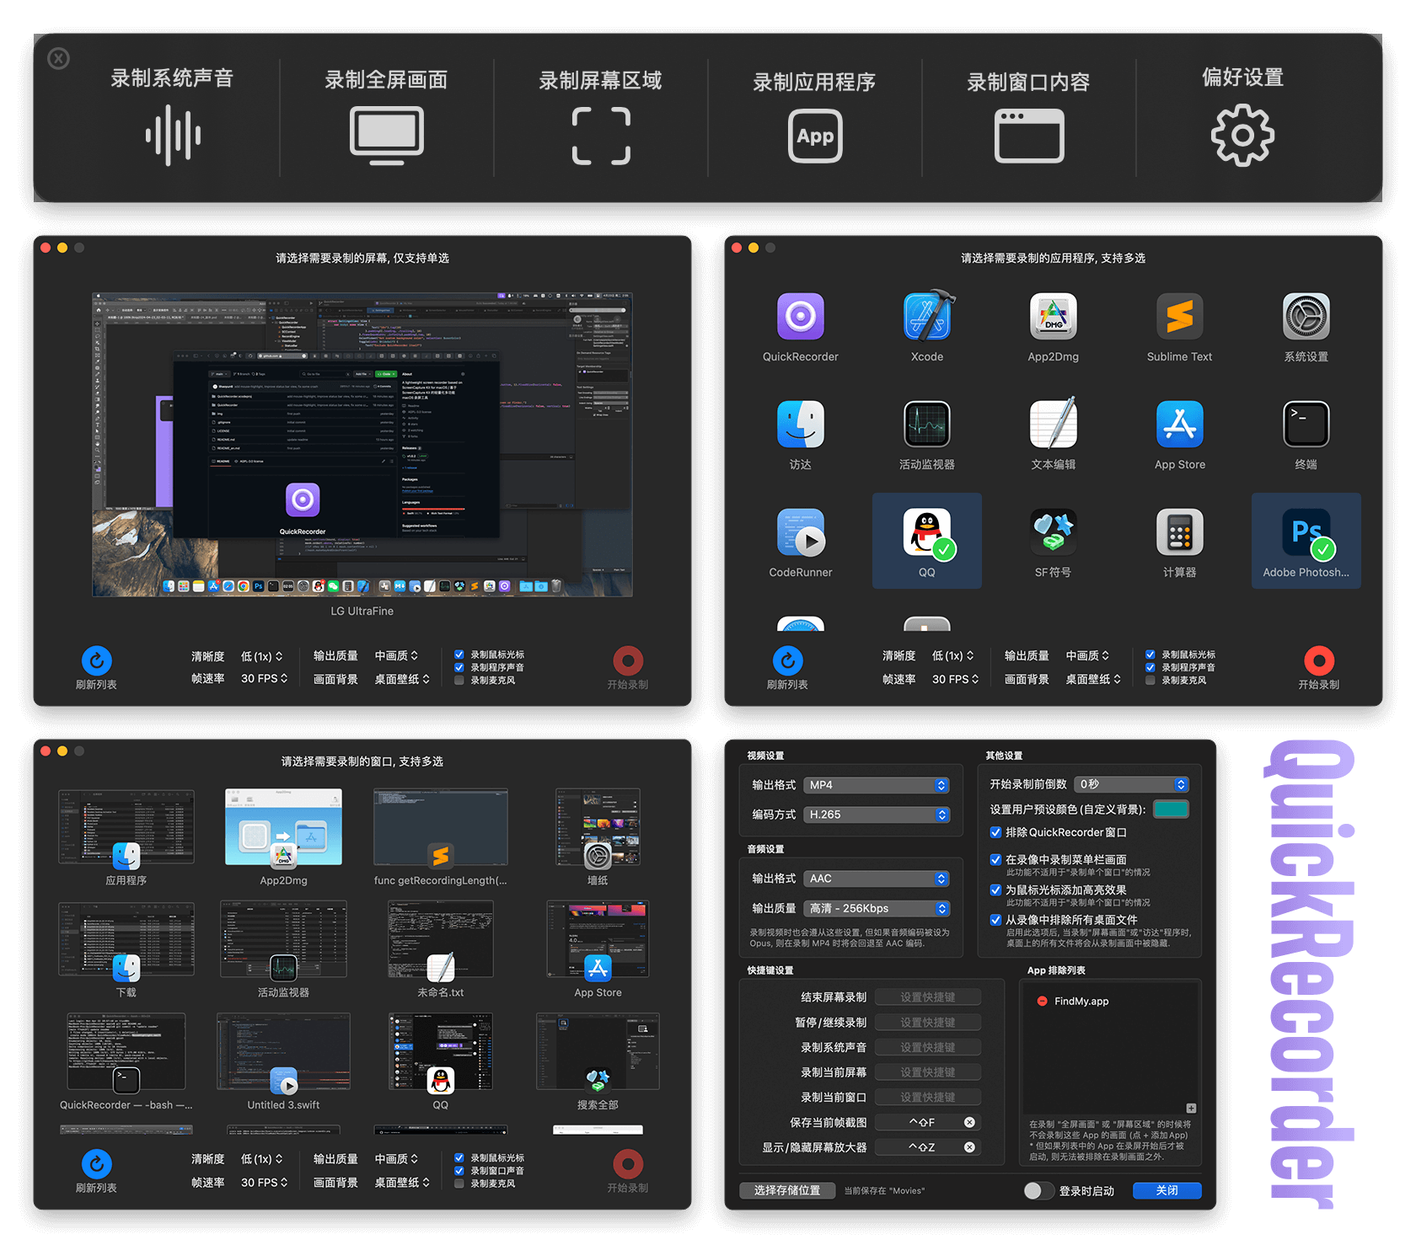
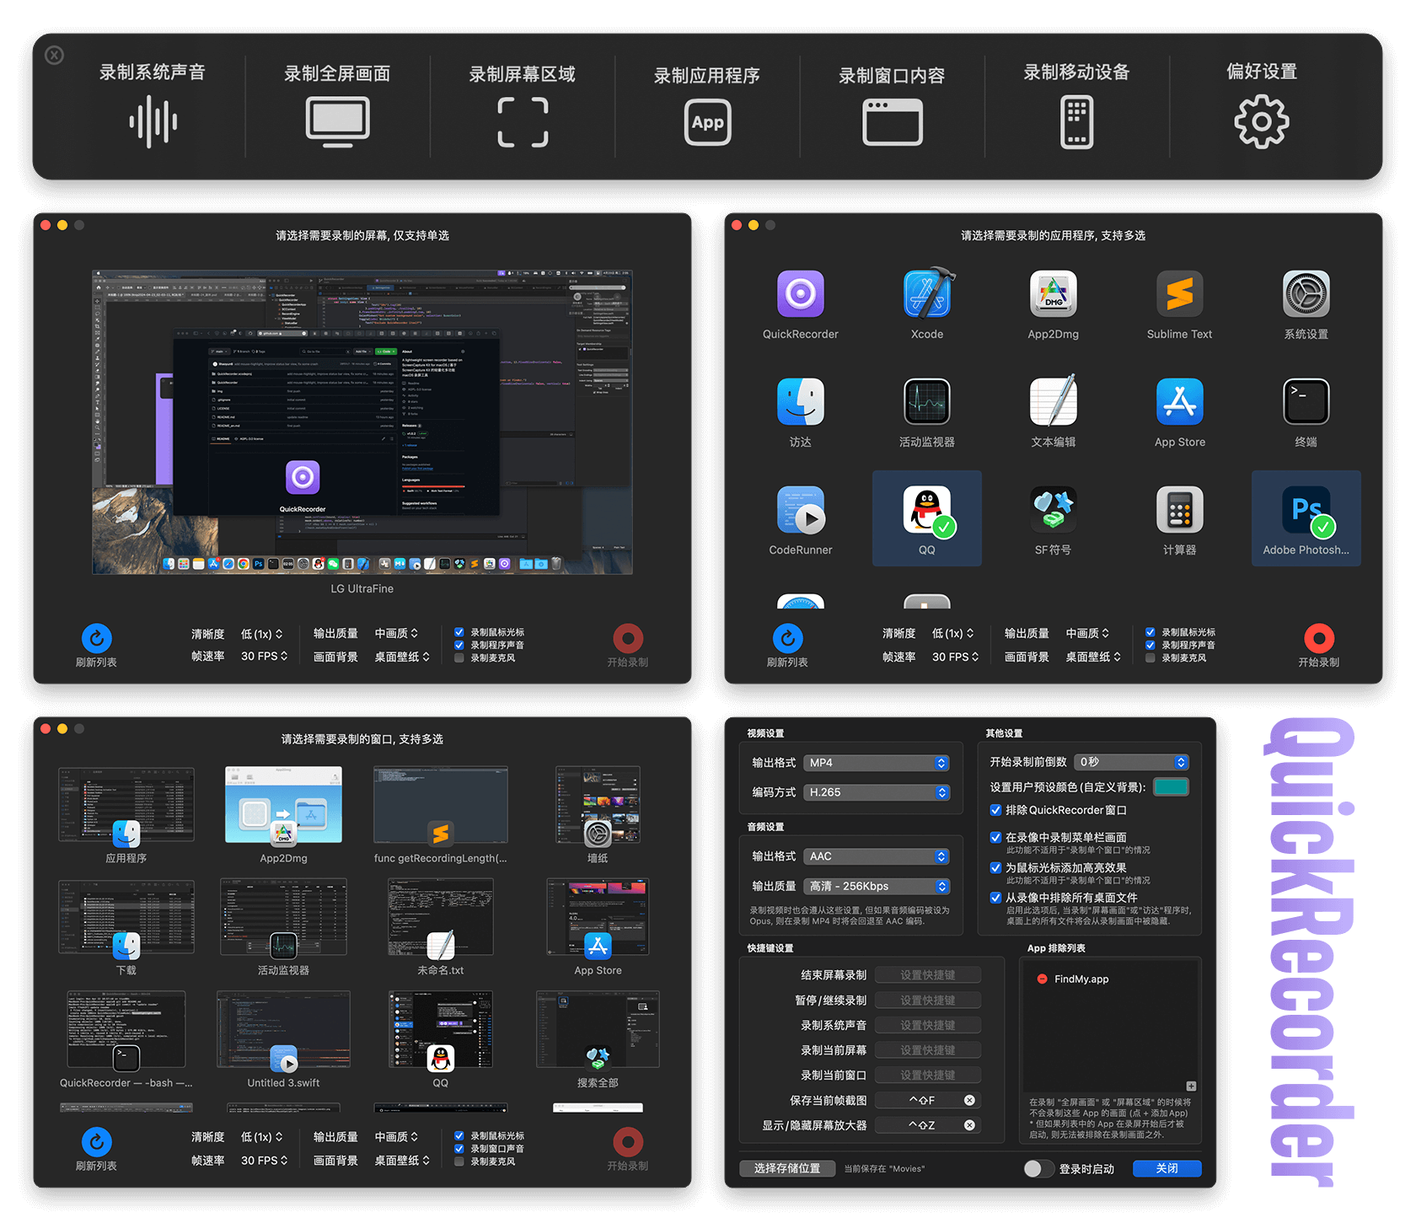
remove pixel format; added alpha support; add hotkey for area recording

diff --git a/QuickRecorder/ViewModel/SettingsView.swift b/QuickRecorder/ViewModel/SettingsView.swift
@@ -21,6 +21,7 @@ struct SettingsView: View {
     @AppStorage("audioQuality")     private var audioQuality: AudioQuality = .high
     @AppStorage("pixelFormat")      private var pixelFormat: PixFormat = .delault
     @AppStorage("colorSpace")       private var colorSpace: ColSpace = .delault
+    @AppStorage("background")       private var background: BackgroundType = .wallpaper
     @AppStorage("hideSelf")         private var hideSelf: Bool = true
     @AppStorage("countdown")        private var countdown: Int = 0
     @AppStorage("poSafeDelay")      private var poSafeDelay: Int = 1
@@ -29,6 +30,7 @@ struct SettingsView: View {
     @AppStorage("includeMenuBar")   private var includeMenuBar: Bool = false
     @AppStorage("hideDesktopFiles") private var hideDesktopFiles: Bool = false
     @AppStorage("trimAfterRecord")  private var trimAfterRecord: Bool = false
+    @AppStorage("withAlpha")        private var withAlpha: Bool = false
     
     var body: some View {
         VStack {
@@ -36,30 +38,35 @@ struct SettingsView: View {
                 VStack(alignment: .leading) {
                     GroupBox(label: Text("Video Settings".local).fontWeight(.bold)) {
                         Form() {
-                            Picker("Format", selection: $videoFormat) {
-                                Text("MOV").tag(VideoFormat.mov)
-                                Text("MP4").tag(VideoFormat.mp4)
-                            }.padding([.leading, .trailing], 10).padding(.bottom, 6)
-                            Picker("Encoder", selection: $encoder) {
-                                Text("H.264").tag(Encoder.h264)
-                                Text("H.265").tag(Encoder.h265)
-                            }.padding([.leading, .trailing], 10).padding(.bottom, 6)
-                            Picker("Pixel Format", selection: $pixelFormat) {
-                                Text("Default").tag(PixFormat.delault)
-                                Text("8bit BGRA").tag(PixFormat.bgra32)
-                                Text("8bit 420 Video").tag(PixFormat.yuv420p8v)
-                                Text("8bit 420 Full").tag(PixFormat.yuv420p8f)
-                                Text("10bit 420 Video").tag(PixFormat.yuv420p10v)
-                                Text("10bit 420 Full").tag(PixFormat.yuv420p10f)
-                            }.padding([.leading, .trailing], 10).padding(.bottom, 6)
                             Picker("Color Space", selection: $colorSpace) {
                                 Text("Default").tag(ColSpace.delault)
                                 Text("sRGB").tag(ColSpace.srgb)
                                 Text("BT.709").tag(ColSpace.bt709)
                                 Text("BT.2020").tag(ColSpace.bt2020)
                                 Text("Display P3").tag(ColSpace.p3)
-                            }.padding([.leading, .trailing], 10)
-                        }.frame(maxWidth: .infinity).padding([.top, .bottom], 10)
+                            }.padding([.leading, .trailing], 10).padding(.bottom, 6)
+                            Picker("Format", selection: $videoFormat) {
+                                Text("MOV").tag(VideoFormat.mov)
+                                Text("MP4").tag(VideoFormat.mp4)
+                            }
+                            .padding([.leading, .trailing], 10).padding(.bottom, 6)
+                            .disabled(withAlpha)
+                            Picker("Encoder", selection: $encoder) {
+                                Text("H.264").tag(Encoder.h264)
+                                Text("H.265").tag(Encoder.h265)
+                            }
+                            .padding([.leading, .trailing], 10).padding(.bottom, 6)
+                            .disabled(withAlpha)
+                        }.frame(maxWidth: .infinity).padding(.top, 10)
+                        Toggle(isOn: $withAlpha) { Text("Recording with Alpha Channel") }
+                            .onChange(of: withAlpha) {alpha in
+                                if alpha {
+                                    encoder = Encoder.h265; videoFormat = VideoFormat.mov
+                                } else {
+                                    if background == .clear { background = .wallpaper }
+                                }}
+                            .padding([.leading, .trailing, .bottom], 10)
+                            .toggleStyle(.checkbox)
                     }//.padding(.bottom, 7)
                     GroupBox(label: Text("Audio Settings".local).fontWeight(.bold)) {
                         Form() {
@@ -82,7 +89,7 @@ struct SettingsView: View {
                             }
                         }.frame(maxWidth: .infinity).padding(.top, 10)
                         Text("These settings are also used when recording video. If set to Opus, MP4 will fall back to AAC.")
-                            .font(.footnote).foregroundColor(Color.gray).padding([.leading,.trailing, .bottom], 7).padding(.top, 1).fixedSize(horizontal: false, vertical: true)
+                            .font(.footnote).foregroundColor(Color.gray).padding([.leading,.trailing, .bottom], 6).padding(.top, 2.5).fixedSize(horizontal: false, vertical: true)
                     }
                 }.frame(width: 270)
                 VStack {
@@ -111,7 +118,7 @@ struct SettingsView: View {
                             }
                         }.frame(maxWidth: .infinity).padding(.top, 10)
                         ColorPicker("Set custom background color:", selection: $userColor).padding([.leading, .trailing], 10).padding(.bottom, 1)
-                        Toggle(isOn: $trimAfterRecord) { Text("Open the trimmer after recording") }
+                        Toggle(isOn: $trimAfterRecord) { Text("Open video trimmer after recording") }
                             .padding([.leading, .trailing], 10).padding(.bottom, 4)
                             .toggleStyle(.checkbox)
                         Toggle(isOn: $hideSelf) { Text("Exclude QuickRecorder itself") }
@@ -150,6 +157,7 @@ struct SettingsView: View {
                         KeyboardShortcuts.Recorder("Record System Audio", name: .startWithAudio)
                         KeyboardShortcuts.Recorder("Record Current Screen", name: .startWithScreen)
                         KeyboardShortcuts.Recorder("Record Topmost Window", name: .startWithWindow)
+                        KeyboardShortcuts.Recorder("Select Area to Record", name: .startWithArea)
                         KeyboardShortcuts.Recorder("Save Current Frame", name: .saveFrame)
                         KeyboardShortcuts.Recorder("Toggle Screen Magnifier", name: .screenMagnifier)
                     }.frame(minWidth: 0, maxWidth: .infinity, minHeight: 0, maxHeight: .infinity).padding(6)
@@ -272,6 +280,7 @@ extension KeyboardShortcuts.Name {
     static let startWithAudio = Self("startWithAudio")
     static let startWithScreen = Self("startWithScreen")
     static let startWithWindow = Self("startWithWindow")
+    static let startWithArea = Self("startWithArea")
     static let screenMagnifier = Self("screenMagnifier")
     static let saveFrame = Self("saveFrame")
     static let pauseResume = Self("pauseResume")

diff --git a/QuickRecorder/ViewModel/ContentView.swift b/QuickRecorder/ViewModel/ContentView.swift
@@ -26,7 +26,7 @@ struct ContentView: View {
                     Spacer()
                     if #available(macOS 13, *) {
                         Button(action: {
-                            closeMainWindow()
+                            appDelegate.closeMainWindow()
                             appDelegate.prepRecord(type: "audio", screens: SCContext.getSCDisplayWithMouse(), windows: nil, applications: nil)
                         }, label: {
                             SelectorView(title: "System Audio".local, symbol: "waveform")
@@ -36,7 +36,7 @@ struct ContentView: View {
                         Divider().frame(height: 70)
                     }
                     Button(action: {
-                        closeMainWindow()
+                        appDelegate.closeMainWindow()
                         appDelegate.createNewWindow(view: ScreenSelector(), title: "Screen Selector".local)
                     }, label: {
                         SelectorView(title: "Screen".local, symbol: "tv.inset.filled")
@@ -44,9 +44,8 @@ struct ContentView: View {
                     }).buttonStyle(.plain)
                     Divider().frame(height: 70)
                     Button(action: {
-                        closeMainWindow()
-                        showAreaSelector()
-                        //createNewWindow(view: AreaSelector(), title: "Area Selector".local, area: true)
+                        appDelegate.closeMainWindow()
+                        appDelegate.showAreaSelector()
                     }, label: {
                         SelectorView(title: "Screen Area".local, symbol: "viewfinder")
                             .cornerRadius(8)
@@ -54,7 +53,7 @@ struct ContentView: View {
                     .buttonStyle(.plain)
                     Divider().frame(height: 70)
                     Button(action: {
-                        closeMainWindow()
+                        appDelegate.closeMainWindow()
                         appDelegate.createNewWindow(view: AppSelector(), title: "App Selector".local)
                     }, label: {
                         SelectorView(title: "Application".local, symbol: "app", overlayer: "App")
@@ -62,7 +61,7 @@ struct ContentView: View {
                     }).buttonStyle(.plain)
                     Divider().frame(height: 70)
                     Button(action: {
-                        closeMainWindow()
+                        appDelegate.closeMainWindow()
                         appDelegate.createNewWindow(view: WinSelector(), title: "Window Selector".local)
                     }, label: {
                         SelectorView(title: "Window".local, symbol: "macwindow")
@@ -72,15 +71,13 @@ struct ContentView: View {
                     Button(action: {
                         isPopoverShowing.toggle()
                     }, label: {
-                        SelectorView(title: "Mobile Device".local, symbol: "apps.iphone")
+                        SelectorView(title: "Mobile Device".local, symbol: "apps.ipad")
                             .cornerRadius(8)
                     }).buttonStyle(.plain)
                         .popover(isPresented: $isPopoverShowing, arrowEdge: .bottom) { iDevicePopoverView() }
                     Divider().frame(height: 70)
                     Button(action: {
                         showSettings = true
-                        //if let w = NSApplication.shared.windows.first(where: { $0.title == "main" }) { w.close() }
-                        //createNewWindow(view: WinSelector(), title: "Window Selector".local)
                     }, label: {
                         SelectorView(title: "Preferences".local, symbol: "gearshape")
                             .cornerRadius(8)
@@ -94,7 +91,7 @@ struct ContentView: View {
             }
             if #available(macOS 14.0, *) {
                 Button(action: {
-                    closeMainWindow()
+                    appDelegate.closeMainWindow()
                 }, label: {
                     Image(systemName: "x.circle")
                         .opacity(xmarkGlowing ? 1.0 : 0.4)
@@ -136,7 +133,9 @@ struct ContentView: View {
             .background( .primary.opacity(backgroundOpacity) )
         }
     }
-    
+}
+
+extension AppDelegate {
     func closeMainWindow() { for w in NSApplication.shared.windows.filter({ $0.title == "QuickReader".local }) { w.close() } }
     
     func showAreaSelector() {
@@ -164,9 +163,7 @@ struct ContentView: View {
         window.isMovableByWindowBackground = true
         window.makeKeyAndOrderFront(self)
     }
-}
-
-extension AppDelegate {
+    
     func createNewWindow(view: some View, title: String, random: Bool = false) {
         guard let screen = SCContext.getScreenWithMouse() else { return }
         var seed = 0.0

diff --git a/QuickRecorder/RecordEngine.swift b/QuickRecorder/RecordEngine.swift
@@ -70,7 +70,7 @@ extension AppDelegate {
                 var except = [SCWindow]()
                 excluded += excliudedApps
                 if ud.bool(forKey: "hideSelf") { if let qrWindows = qrWindows { except += qrWindows }}
-                //if ud.bool(forKey: "removeWallpaper") { if dockApp != nil { except += wallpaper}}
+                if ud.string(forKey: "background") != BackgroundType.wallpaper.rawValue { if dockApp != nil { except += wallpaper}}
                 if ud.bool(forKey: "hideDesktopFiles") { except += desktopFiles }
                 SCContext.filter = SCContentFilter(display: SCContext.screen ?? SCContext.getSCDisplayWithMouse()!, excludingApplications: excluded, exceptingWindows: except)
                 if #available(macOS 14.2, *) { SCContext.filter?.includeMenuBar = ((SCContext.streamType == .screen || SCContext.streamType == .screenarea) && ud.bool(forKey: "includeMenuBar")) }
@@ -130,7 +130,7 @@ extension AppDelegate {
             }
         }
         if let colorSpace = SCContext.getColorSpace() { conf.colorSpaceName = colorSpace }
-        if let pixelFormat = SCContext.getPixelFormat() { conf.pixelFormat = pixelFormat }
+        if ud.bool(forKey: "withAlpha") { conf.pixelFormat = kCVPixelFormatType_32BGRA }
         
         conf.minimumFrameInterval = CMTime(value: 1, timescale: audioOnly ? CMTimeScale.max : CMTimeScale(ud.integer(forKey: "frameRate")))
         if ud.string(forKey: "background") != BackgroundType.wallpaper.rawValue { conf.backgroundColor = SCContext.getBackgroundColor() }
@@ -219,7 +219,7 @@ extension AppDelegate {
         let encoderMultiplier: Double = encoderIsH265 ? 0.5 : 0.9
         let targetBitrate = (Double(conf.width) * Double(conf.height) * fpsMultiplier * encoderMultiplier * ud.double(forKey: "videoQuality"))
         let videoSettings: [String: Any] = [
-            AVVideoCodecKey: encoderIsH265 ? AVVideoCodecType.hevc : AVVideoCodecType.h264,
+            AVVideoCodecKey: encoderIsH265 ? (ud.bool(forKey: "withAlpha") ? AVVideoCodecType.hevcWithAlpha : AVVideoCodecType.hevc) : AVVideoCodecType.h264,
             // yes, not ideal if we want more than these encoders in the future, but it's ok for now
             AVVideoWidthKey: conf.width,
             AVVideoHeightKey: conf.height,
@@ -230,6 +230,7 @@ extension AppDelegate {
         ]
         SCContext.recordMic = ud.bool(forKey: "recordMic")
         SCContext.vwInput = AVAssetWriterInput(mediaType: AVMediaType.video, outputSettings: videoSettings)
+        //SCContext.vwInputAdaptor = AVAssetWriterInputPixelBufferAdaptor(assetWriterInput: SCContext.vwInput, sourcePixelBufferAttributes: videoSettings)
         SCContext.awInput = AVAssetWriterInput(mediaType: AVMediaType.audio, outputSettings: SCContext.audioSettings)
         SCContext.micInput = AVAssetWriterInput(mediaType: AVMediaType.audio, outputSettings: SCContext.audioSettings)
         SCContext.vwInput.expectsMediaDataInRealTime = true

diff --git a/QuickRecorder/SCContext.swift b/QuickRecorder/SCContext.swift
@@ -34,6 +34,7 @@ class SCContext {
     static var audioFile: AVAudioFile?
     static var vW: AVAssetWriter!
     static var vwInput, awInput, micInput: AVAssetWriterInput!
+    //static var vwInputAdaptor: AVAssetWriterInputPixelBufferAdaptor!
     static var startTime: Date?
     static var timePassed: TimeInterval = 0
     static var stream: SCStream!
@@ -140,7 +141,7 @@ class SCContext {
         }
     }
     
-    static func getPixelFormat() -> OSType? {
+    /*static func getPixelFormat() -> OSType? {
         switch ud.string(forKey: "pixelFormat") {
         case PixFormat.bgra32.rawValue: return kCVPixelFormatType_32BGRA
         case PixFormat.yuv420p8v.rawValue: return kCVPixelFormatType_420YpCbCr8BiPlanarVideoRange
@@ -149,7 +150,7 @@ class SCContext {
         case PixFormat.yuv420p10f.rawValue: return kCVPixelFormatType_420YpCbCr10BiPlanarFullRange
         default: return nil
         }
-    }
+    }*/
     
     static func getFilePath(capture: Bool = false) -> String {
         let dateFormatter = DateFormatter()
@@ -180,6 +181,7 @@ class SCContext {
         let color = ud.string(forKey: "background")
         if color == BackgroundType.wallpaper.rawValue { return CGColor.black }
         switch color {
+            case "clear": backgroundColor = CGColor.clear
             case "black": backgroundColor = CGColor.black
             case "white": backgroundColor = CGColor.white
             case "gray": backgroundColor = NSColor.systemGray.cgColor

diff --git a/QuickRecorder/QuickRecorderApp.swift b/QuickRecorder/QuickRecorderApp.swift
@@ -230,6 +230,10 @@ class AppDelegate: NSObject, NSApplicationDelegate, SCStreamDelegate, SCStreamOu
             for w in NSApp.windows { w.close() }
             prepRecord(type: "display", screens: SCContext.getSCDisplayWithMouse(), windows: nil, applications: nil, fastStart: true)
         }
+        KeyboardShortcuts.onKeyDown(for: .startWithArea) {[self] in
+            for w in NSApp.windows { w.close() }
+            showAreaSelector()
+        }
         KeyboardShortcuts.onKeyDown(for: .startWithWindow) { [self] in
             for w in NSApp.windows { w.close() }
             let frontmostApp = NSWorkspace.shared.frontmostApplication
@@ -357,4 +361,4 @@ enum Encoder: String { case h264, h265 }
 
 enum StreamType: Int { case screen, window, windows, application, screenarea, systemaudio, idevice, camera }
 
-enum BackgroundType: String { case wallpaper, black, white, red, green, yellow, orange, gray, blue, custom }
+enum BackgroundType: String { case wallpaper, clear, black, white, red, green, yellow, orange, gray, blue, custom }

diff --git a/QuickRecorder/ViewModel/ScreenSelector.swift b/QuickRecorder/ViewModel/ScreenSelector.swift
@@ -155,6 +155,7 @@ struct ScreenSelector: View {
                                 }.buttonStyle(.borderless)
                                 Picker("", selection: $background) {
                                     Text("Wallpaper").tag(BackgroundType.wallpaper)
+                                    if ud.bool(forKey: "withAlpha") { Text("Transparent").tag(BackgroundType.clear) }
                                     Text("Black").tag(BackgroundType.black)
                                     Text("White").tag(BackgroundType.white)
                                     Text("Gray").tag(BackgroundType.gray)

diff --git a/QuickRecorder/ViewModel/AppSelector.swift b/QuickRecorder/ViewModel/AppSelector.swift
@@ -138,6 +138,7 @@ struct AppSelector: View {
                                 }.buttonStyle(.borderless)
                                 Picker("", selection: $background) {
                                     Text("Wallpaper").tag(BackgroundType.wallpaper)
+                                    if ud.bool(forKey: "withAlpha") { Text("Transparent").tag(BackgroundType.clear) }
                                     Text("Black").tag(BackgroundType.black)
                                     Text("White").tag(BackgroundType.white)
                                     Text("Gray").tag(BackgroundType.gray)

diff --git a/QuickRecorder/ViewModel/WinSelector.swift b/QuickRecorder/ViewModel/WinSelector.swift
@@ -164,6 +164,7 @@ struct WinSelector: View {
                                 }.buttonStyle(.borderless)
                                 Picker("", selection: $background) {
                                     Text("Wallpaper").tag(BackgroundType.wallpaper)
+                                    if ud.bool(forKey: "withAlpha") { Text("Transparent").tag(BackgroundType.clear) }
                                     Text("Black").tag(BackgroundType.black)
                                     Text("White").tag(BackgroundType.white)
                                     Text("Gray").tag(BackgroundType.gray)

diff --git a/QuickRecorder/ViewModel/AreaSelector.swift b/QuickRecorder/ViewModel/AreaSelector.swift
@@ -83,6 +83,7 @@ struct AreaSelector: View {
                                 }.buttonStyle(.borderless)
                                 Picker("", selection: $background) {
                                     Text("Wallpaper").tag(BackgroundType.wallpaper)
+                                    if ud.bool(forKey: "withAlpha") { Text("Transparent").tag(BackgroundType.clear) }
                                     Text("Black").tag(BackgroundType.black)
                                     Text("White").tag(BackgroundType.white)
                                     Text("Gray").tag(BackgroundType.gray)

diff --git a/README_en.md b/README_en.md
@@ -26,11 +26,10 @@ brew install lihaoyun6/tap/quickrecorder
 ```
 
 ### Features/Usage:
-- Written using SwiftUI, it is small and lightweight. The software is only about 10MB in size and does not have any redundant functions.
+- Supports window recording, App recording, mobile device recording, etc. And supports window sound internal recording, mouse highlighting, hiding desktop files, etc.
 
-- Supports window recording, App recording and other modes; supports internal sound recording, mouse highlighting, hiding desktop files and other features.  
-- Fully supports the **[Presenter Overlay](https://support.apple.com/guide/facetime/presenter-overlay-video-conferencing-fctm6333f4bd/mac)** feature added in macOS 14.2, which can superimpose the real-time camera image while recording the screen.  
-- After starting recording, QuickRecorder will display a recording indicator in the menu bar, and you can pause or check the recording duration at any time.
+- Fully supports the new **[Presenter Overlay](https://support.apple.com/guide/facetime/presenter-overlay-video-conferencing-fctm6333f4bd/mac)** feature of macOS 14, which can superimpose camera images in real time (Lower versions of macOS can use floating overlayer mode).
+- Supports `HEVC with Alpha` feature, which can include Alpha channel in the output file (currently only iMovie and FCPX support this feature)
 - More features are being developed...
 
 ## Q&A

diff --git a/README.md b/README.md
@@ -28,9 +28,9 @@ brew install lihaoyun6/tap/quickrecorder
 ### 特色 / 使用:
 - 使用 SwiftUI 编写, 体积小巧轻量化. 软件大小仅有不到 10MB, 无任何累赘功能. 
 
-- 支持窗口录制, App 录制等模式; 支持窗口声音内录, 鼠标高亮, 隐藏桌面文件等功能. 
-- 完整支持 macOS 14.2 新增的 **[演讲者前置](https://support.apple.com/zh-cn/guide/facetime/fctm6333f4bd/mac)** 特性, 可在录屏的同时叠加实时摄像头画面.  
-- 开始录制后 QuickRecorder 会在菜单栏显示录制指示器, 可随时暂停或查看录制时长.  
+- 支持窗口录制, App 录制, 录制移动设备等; 支持窗口声音内录, 鼠标高亮, 隐藏桌面文件等功能. 
+- 完整支持 macOS 14 新增的 **[演讲者前置](https://support.apple.com/zh-cn/guide/facetime/fctm6333f4bd/mac)** 特性, 可在实时叠加摄像头画面 (低版本 macOS 可以使用悬浮窗模式).  
+- 支持 `HEVC with Alpha` 特性, 可在输出文件中包含 Alpha 通道 (目前仅 iMovie 与 FCPX 支持此特性)
 - 更多功能陆续开发中...  
 
 ## 常见问题
